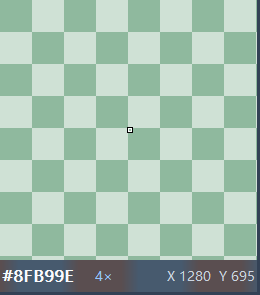
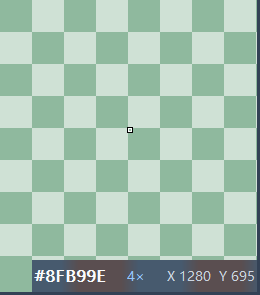
feat: add hover color swatch to zoom picker for v0.2.2

Changed region(s): [[0.0, 0.8542, 0.4308, 1.0], [0.4923, 0.9153, 0.5538, 0.9458]]

diff --git a/src/ui/windows/magnifier.rs b/src/ui/windows/magnifier.rs
@@ -30,6 +30,7 @@ use super::frost::FrostedPanel;
 use crate::{
     app::{config::AppearanceConfig, diagnostics, i18n::tr},
     core::{
+        color::Rgb8,
         format::{ColorFormat, format_color},
         geometry::{ScreenPointPx, ScreenRectPx},
         state::{PickedColor, SampleKind},
@@ -53,6 +54,7 @@ struct State {
 
 #[derive(Default)]
 struct Footer {
+    rgb: Option<Rgb8>,
     hex: Vec<u16>,
     scale: Vec<u16>,
     coordinates: Vec<u16>,
@@ -89,6 +91,7 @@ impl State {
             },
         );
         self.footer = Footer {
+            rgb: self.hover.map(|pixel| pixel.rgb),
             hex: hex.encode_utf16().collect(),
             scale: format!("{factor}×").encode_utf16().collect(),
             coordinates: format!("{x}  {y}").encode_utf16().collect(),
@@ -793,6 +796,18 @@ impl Surface {
             self.dpi,
             self.appearance.border_width_dip,
         );
+        let color = footer.rgb.map_or(palette::EMPTY, |rgb| {
+            COLORREF(u32::from(rgb.r) | (u32::from(rgb.g) << 8) | (u32::from(rgb.b) << 16))
+        });
+        self.fill(
+            RECT {
+                left: 0,
+                top,
+                right: self.footer_swatch_width(footer, border)?,
+                bottom: self.height - border,
+            },
+            color,
+        )?;
         for FooterLabel {
             rect,
             font,
@@ -819,12 +834,27 @@ impl Surface {
         font.measure(self.dc.0, text)
     }
 
+    fn footer_swatch_width(&self, footer: &Footer, border: i32) -> Result<i32> {
+        // Fill the footer height flush to the left edge. Limit width on narrow
+        // snapshots without shrinking text below the existing smallest font.
+        let hex: Vec<u16> = "#DDDDDD".encode_utf16().collect();
+        let text_width = self.text_size(&self.narrow_font, &hex)?.cx
+            + self
+                .text_size(&self.narrow_font, &footer.compact_coordinates)?
+                .cx;
+        let remaining = self.width - border - text_width - 8;
+        Ok((footer_height(self.dpi) - border)
+            .min((self.width - border) / 8)
+            .min(remaining)
+            .max(0))
+    }
+
     fn footer_labels<'a>(
         &'a self,
         footer: &'a Footer,
         border: i32,
     ) -> Result<[FooterLabel<'a>; 3]> {
-        let left = 2;
+        let left = self.footer_swatch_width(footer, border)? + 2;
         let right = (self.width - border - 2).max(left);
         let available = right - left;
         let gap = 4;
@@ -1073,6 +1103,7 @@ mod tests {
 
     fn assert_single_row_footer_fits() {
         let footer = Footer {
+            rgb: Some(Rgb8::new(221, 221, 221)),
             hex: "#DDDDDD".encode_utf16().collect(),
             scale: "32×".encode_utf16().collect(),
             coordinates: "X -65535  Y -65535".encode_utf16().collect(),

diff --git a/README.md b/README.md
@@ -31,9 +31,9 @@ The live preview follows your pointer and shows the color, HEX value, and physic
 | Select a frozen pixel | **Left-click inside the pixel grid** |
 | Cancel picking | **Esc** or **right-click**; in frozen mode, left-clicking outside the preview also cancels |
 
-The frozen preview uses a snapshot, so you can inspect a tiny target without chasing moving content. As you hover over its grid, the information bar updates the HEX value and the pixel's original screen X/Y coordinates alongside the zoom level. Clicking its border or information bar does not select a color. While picking, mouse clicks and scrolling are consumed by the picker; normal input resumes when the session ends.
+The frozen preview uses a snapshot, so you can inspect a tiny target without chasing moving content. As you hover over its grid, the information bar updates the HEX value and the pixel's original screen X/Y coordinates alongside the zoom level. A color swatch sits flush against the information bar's left edge, beside the HEX value, and follows the hovered pixel without widening the window. Clicking its border or information bar does not select a color. While picking, mouse clicks and scrolling are consumed by the picker; normal input resumes when the session ends.
 
-![Frozen pixel grid with a color value, source coordinates, and zoom level](docs/images/ui-frozen.png)
+![English frozen preview with a hover color swatch, HEX value, source coordinates, and zoom level](docs/images/ui-frozen-en.png)
 
 Starting again during an active pick does not create another session. The tray menu shows your current shortcut and whether Windows registered it successfully. Closing a result window leaves the app in the tray. To quit completely, right-click the tray icon and choose **Exit**.
 

diff --git a/docs/ui-preview.md b/docs/ui-preview.md
@@ -42,7 +42,8 @@
 边框超过 2 DIP 时按需增加高度，最大 42 DIP，避免底边遮挡坐标；设置预览共用这一布局。
 冻结像素区取消外围边距，按快照在初始 4× 下的实际物理像素范围收紧（每轴上限 240 DIP，
 并限制在工作区内）；边缘裁剪的快照允许矩形视口。信息栏固定为 28 DIP 单行，
-左列显示当前 hover 像素的 HEX 与倍率，右列显示原始物理屏幕 X/Y；
+色值左侧的色块贴齐信息栏左边缘，随当前 hover 像素同步更新；
+左列显示该像素的 HEX 与倍率，右列显示原始物理屏幕 X/Y；
 移到信息栏、边框或无效像素时显示占位符。窗口宽度跟随像素区，不为文字扩宽，
 不增加两侧留白。信息栏按实际文字宽度选择字号和间距；窄截图使用紧凑坐标，
 空间不足时省略倍率，优先保留完整 HEX 和 X/Y。
@@ -126,8 +127,10 @@ cargo run --example ui-preview -- result --color=F4F2F2 --output=target/result-p
 
 ![实时取色](images/ui-live.png)
 
-![冻结放大](images/ui-frozen.png)
+![English frozen preview with a hover color swatch](images/ui-frozen-en.png)
 
-屏幕边缘的窄快照保持原始像素比例，信息栏仍在同一行显示色值与坐标：
+![中文冻结放大与悬停色块](images/ui-frozen.png)
 
-![边缘快照](images/ui-frozen-edge.png)
+屏幕边缘的窄快照保持原始像素比例，信息栏仍在同一行显示色块、色值与坐标，窗口不为色块扩宽：
+
+![边缘快照与悬停色块](images/ui-frozen-edge.png)

diff --git a/README.zh-CN.md b/README.zh-CN.md
@@ -31,9 +31,9 @@
 | 确认冻结像素 | 在**像素格内左键单击** |
 | 取消取色 | **Esc** 或**右键**；冻结时在浮窗外左键单击也会取消 |
 
-冻结模式使用局部快照，便于选中细小目标，不受后续画面变化影响。鼠标在像素格内移动时，信息栏实时显示当前像素的 HEX、原始屏幕 X/Y 坐标和放大倍率。点击浮窗边框或信息栏不会取色。取色期间鼠标点击和滚轮由取色工具处理，结束后恢复正常输入。
+冻结模式使用局部快照，便于选中细小目标，不受后续画面变化影响。鼠标在像素格内移动时，信息栏实时显示当前像素的 HEX、原始屏幕 X/Y 坐标和放大倍率。色值左侧的色块贴齐信息栏左边缘，随鼠标悬停的像素同步更新，不增加窗口宽度。点击浮窗边框或信息栏不会取色。取色期间鼠标点击和滚轮由取色工具处理，结束后恢复正常输入。
 
-![冻结像素格、色值、原始坐标与放大倍率](docs/images/ui-frozen.png)
+![中文冻结预览：悬停色块、HEX 色值、原始坐标与放大倍率](docs/images/ui-frozen.png)
 
 取色期间重复激活不会叠加会话。托盘菜单显示当前快捷键及其在 Windows 中的注册状态。关闭结果窗口后，程序仍驻留托盘；如需完全退出，请右键托盘图标并选择**退出**。
 
